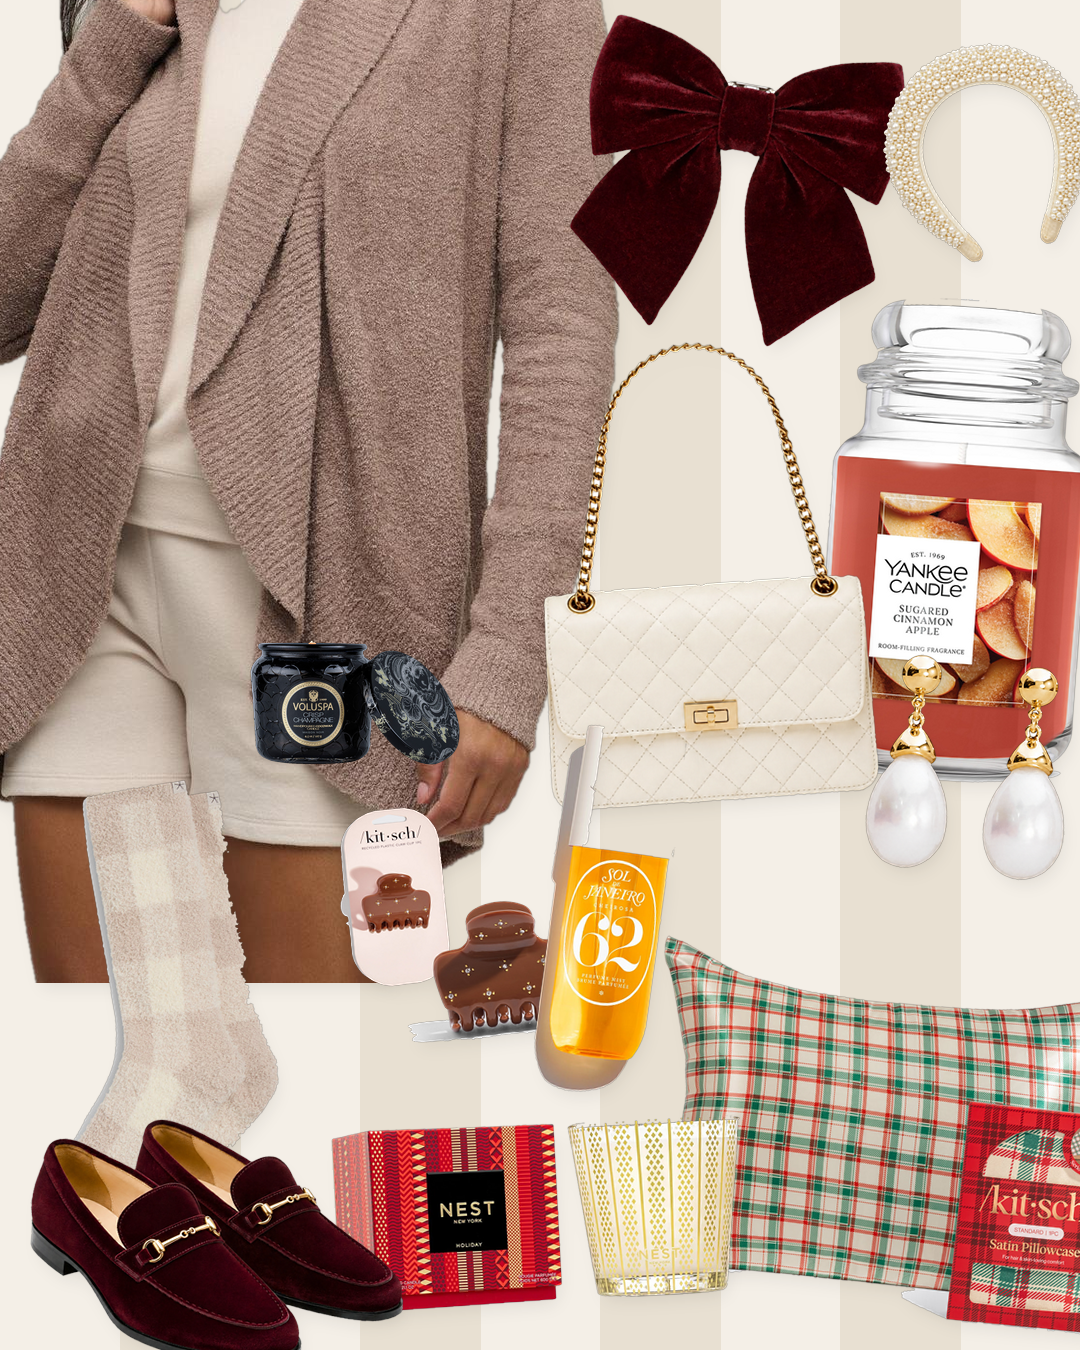
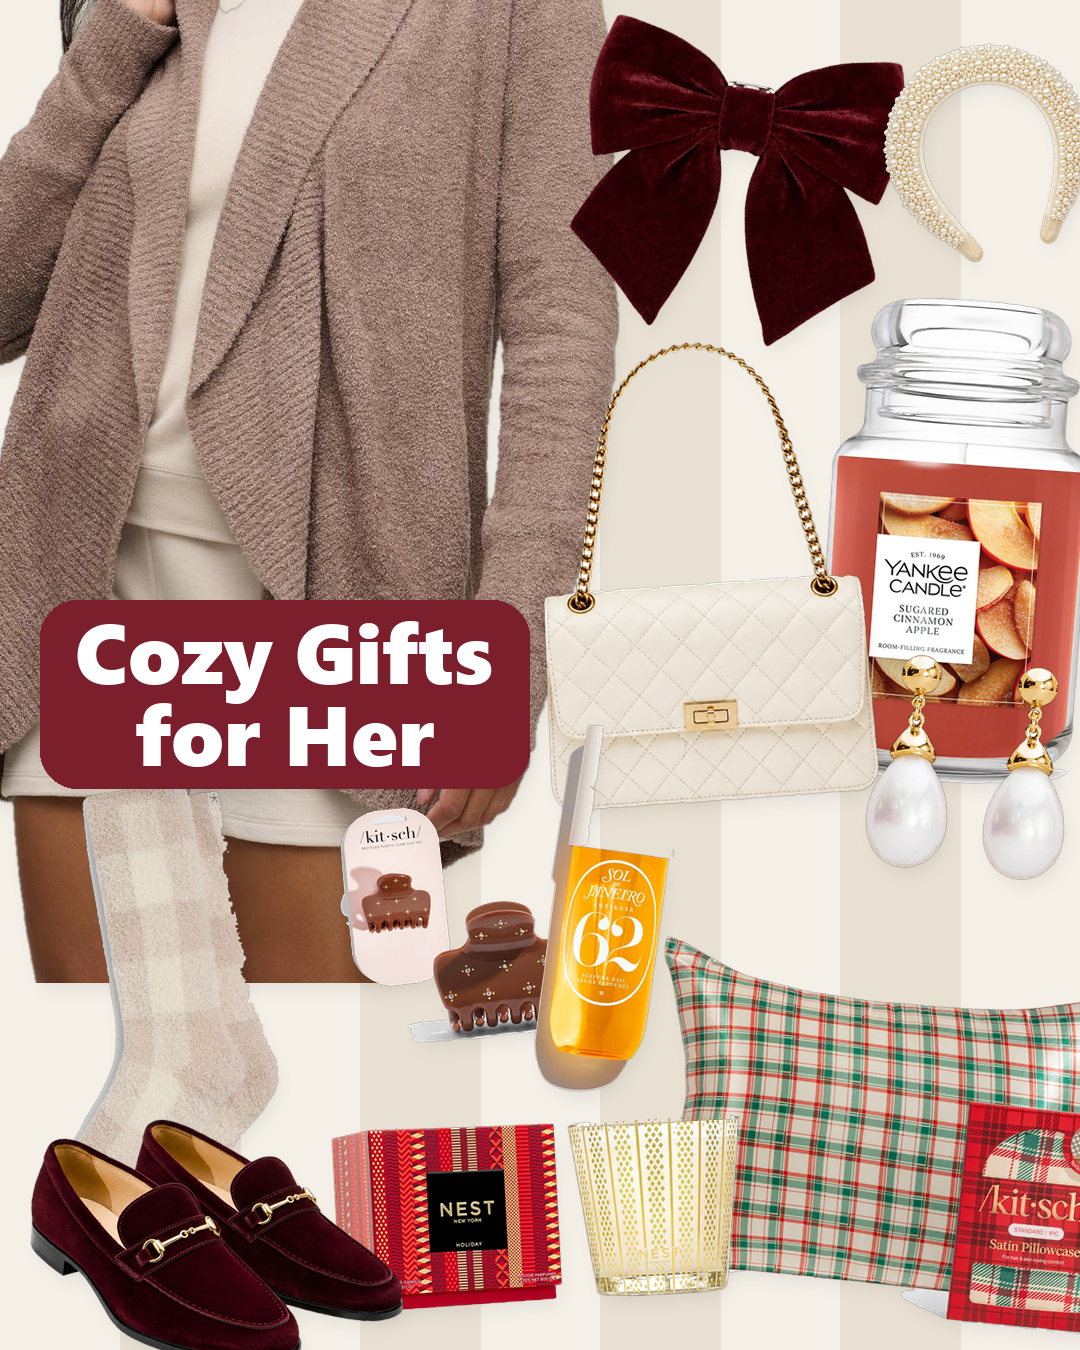
Collage v2 full set: 5 new dense cut-out collages + titles, linen bg, GrabCut/dark-shadow cutouts, manifest

diff --git a/specs/make_collage2.py b/specs/make_collage2.py
@@ -16,12 +16,14 @@ OUT = ROOT / "posts" / "collage2"
 W, H = 1080, 1350
 
 
-def cut(src, tol=30, grab=False):
+def cut(src, tol=30, grab=False, cache=True):
     """Flood-fill the background from the border by colour distance to the border colour (works on white AND grey studio bgs)."""
     dst = CUT / (pathlib.Path(src).stem + ".png")
-    if dst.exists():
+    if cache and dst.exists():
         return Image.open(dst)
     im = Image.open(SRC / src).convert("RGBA")
+    if im.getextrema()[3][0] < 250 and tol >= 50:   # pre-cut PNG with a shadow/halo: flatten on white and re-cut harder
+        flat = Image.new("RGBA", im.size, (255, 255, 255, 255)); flat.alpha_composite(im); im = flat
     if im.getextrema()[3][0] < 250:          # already transparent
         a = im.getchannel("A")
         out = im.crop(a.point(lambda v: 255 if v > 20 else 0).getbbox())
@@ -45,8 +47,17 @@ def cut(src, tol=30, grab=False):
         for nx, ny in ((x + 1, y), (x - 1, y), (x, y + 1), (x, y - 1)):
             if 0 <= nx < w and 0 <= ny < h and not seen[ny * w + nx] and bgish(nx, ny):
                 seen[ny * w + nx] = 1; q.append((nx, ny))
+    if grab == "dark":   # dark product on a light bg with a grey drop shadow: keep flooding through any light pixel
+        q = deque((i % w, i // w) for i in range(w * h) if seen[i])
+        while q:
+            x, y = q.popleft()
+            for nx, ny in ((x + 1, y), (x - 1, y), (x, y + 1), (x, y - 1)):
+                if 0 <= nx < w and 0 <= ny < h and not seen[ny * w + nx]:
+                    r, g, b, _ = px[nx, ny]
+                    if r + g + b > 3 * 135:
+                        seen[ny * w + nx] = 1; q.append((nx, ny))
     mask = Image.frombytes("L", (w, h), bytes(0 if s else 255 for s in seen))
-    if grab:   # photo with a grey/gradient studio bg (models): refine with OpenCV GrabCut seeded by the flood fill
+    if grab is True or grab == "grab":   # photo with a grey/gradient studio bg (models): refine with OpenCV GrabCut seeded by the flood fill
         import cv2, numpy as np
         rgb = np.array(im.convert("RGB"))[:, :, ::-1].copy()
         m = np.where(np.array(mask) > 0, cv2.GC_PR_FGD, cv2.GC_BGD).astype("uint8")
@@ -70,6 +81,52 @@ def pine():
     bg = Image.new("RGB", (W, H), "#1F3B2D"); g = Image.new("L", (W, H), 0); d = ImageDraw.Draw(g)
     d.polygon([(W * .55, 0), (W * .85, 0), (W * .3, H), (0, H)], fill=60)
     return Image.composite(Image.new("RGB", (W, H), "#2E5A43"), bg, g.filter(ImageFilter.GaussianBlur(90)))
+
+
+def linen(base=(233, 223, 205)):
+    """Warm oatmeal linen: fine noise + faint horizontal/vertical weave."""
+    import random
+    rnd = random.Random(7)
+    sm = Image.new("L", (W // 2, H // 2)); sm.putdata([rnd.randint(0, 255) for _ in range(W * H // 4)])
+    noise = sm.resize((W, H), Image.BILINEAR).filter(ImageFilter.GaussianBlur(.6))
+    weave = Image.new("L", (W, H), 128); d = ImageDraw.Draw(weave)
+    for y in range(0, H, 3):
+        d.line([(0, y), (W, y)], fill=128 + rnd.randint(-22, 22))
+    wv = Image.new("L", (W, H), 128); d = ImageDraw.Draw(wv)
+    for x in range(0, W, 3):
+        d.line([(x, 0), (x, H)], fill=128 + rnd.randint(-18, 18))
+    tex = ImageChops.add(ImageChops.multiply(weave, wv), noise, scale=2)
+    bg = Image.new("RGB", (W, H), base)
+    dark = Image.new("RGB", (W, H), tuple(int(c * .9) for c in base))
+    return Image.composite(bg, dark, tex.point(lambda v: min(255, int(v * 1.6) + 40)))
+
+
+def title(canvas, text, x, y, size=88, style="shadow", fill="#FFFFFF", bgc="#1F3B2D", rot=0):
+    """Bold title sticker like her old collages. style 'shadow' = white heavy sans with dark outline + soft shadow (for pine);
+    'pill' = heavy text on a rounded colour pill (for cream/linen). x, y = top-left of the sticker."""
+    f = ImageFont.truetype("C:/Windows/Fonts/seguibl.ttf", size)
+    probe = ImageDraw.Draw(Image.new("L", (1, 1)))
+    l, t, r, b = map(round, probe.multiline_textbbox((0, 0), text, font=f, spacing=-size // 10, align="center"))
+    tw, th = r - l, b - t
+    px, py = (int(size * .42), int(size * .26)) if style == "pill" else (int(size * .2), int(size * .2))
+    layer = Image.new("RGBA", (tw + 2 * px + 40, th + 2 * py + 40), (0, 0, 0, 0))
+    ox, oy = 20, 20
+    if style == "pill":
+        sh = Image.new("RGBA", layer.size, (0, 0, 0, 0))
+        ImageDraw.Draw(sh).rounded_rectangle([ox, oy + 6, ox + tw + 2 * px, oy + th + 2 * py + 6], radius=int(size * .45), fill=(0, 0, 0, 90))
+        layer.alpha_composite(sh.filter(ImageFilter.GaussianBlur(8)))
+        ImageDraw.Draw(layer).rounded_rectangle([ox, oy, ox + tw + 2 * px, oy + th + 2 * py], radius=int(size * .45), fill=bgc)
+        ImageDraw.Draw(layer).multiline_text((ox + px - l, oy + py - t), text, font=f, fill=fill, spacing=-size // 10, align="center")
+    else:
+        sh = Image.new("RGBA", layer.size, (0, 0, 0, 0))
+        ImageDraw.Draw(sh).multiline_text((ox + px - l, oy + py - t + 6), text, font=f, fill=(0, 0, 0, 200), spacing=-size // 10, align="center",
+                                          stroke_width=max(2, size // 22), stroke_fill=(0, 0, 0, 200))
+        layer.alpha_composite(sh.filter(ImageFilter.GaussianBlur(7)))
+        ImageDraw.Draw(layer).multiline_text((ox + px - l, oy + py - t), text, font=f, fill=fill, spacing=-size // 10, align="center",
+                                             stroke_width=max(2, size // 26), stroke_fill=bgc)
+    if rot:
+        layer = layer.rotate(-rot, expand=True, resample=Image.BICUBIC)
+    _safe(canvas, layer, x - ox, y - oy)
 
 
 def place(canvas, img, x, y, w, rot=0, shadow=.28, flip=False):
@@ -98,7 +155,7 @@ def sticker(canvas, text, x, y, size=64, fill="#FFFFFF", stroke="#1F3B2D"):
 
 LAYOUTS = {
  # Cozy gifts for her: cream stripes, cranberry + oatmeal + cream + gold
- "her-cozy": dict(bg=stripes, items=[
+ "her-cozy": dict(bg=stripes, title=dict(text="Cozy Gifts\nfor Her", x=40, y=600, size=84, style="pill", bgc="#7A1F2B"), items=[
    ("bfd/cardi_c.jpg", -60, -30, 680, 0, 16, "grab"),        # hero apparel, cropped flush top-left
    ("bow.png", 550, 10, 320, 10, 28),
    ("headband.png", 860, 20, 210, -14, 28),
@@ -113,6 +170,89 @@ LAYOUTS = {
    ("trend/nest.jpg", 330, 1110, 410, -3, 26),
    ("loafers.png", 20, 1110, 380, 4, 28),
   ]),
+ # Gifts for him: deep pine, browns/black/silver, white "Holiday Favorites" title at the bottom
+ "him-favorites": dict(bg=pine, title=dict(text="Holiday Favorites", x=95, y=1180, size=104), items=[
+   ("brand/bose_c.png", -20, 30, 470, -6, 28),
+   ("brand/beanie_c.png", 410, -10, 300, 6, 28),
+   ("brand/yeti_c.png", 760, 10, 270, 4, 28),
+   ("trend/cosori.png", 20, 400, 330, -4, 28),
+   ("brand/ember_c.png", 330, 330, 270, 0, 28),
+   ("watch.png", 610, 290, 170, 12, 28),
+   ("dec3/bose_flex.jpg", 760, 330, 300, -8, 28),
+   ("dec3/lodge.jpg", 540, 520, 380, -18, 28),
+   ("him/leatherman.jpg", 900, 560, 150, 18, 28),
+   ("wallet.png", 300, 640, 280, 8, 28),
+   ("brand/thera_c.png", 10, 740, 320, -10, 50, "dark"),
+   ("bfd/BDWCC27072_UMBER_MULTI_FRONT.jpg", 270, 860, 210, -14, 42),
+   ("moccasins.png", 560, 860, 470, -4, 28),
+   ("brand/airtag_c.png", 440, 900, 170, 10, 28),
+ ]),
+ # Christmas hosting: oatmeal linen, red/cream/gold/black, cranberry pill title
+ "hosting-season": dict(bg=linen, title=dict(text="Hosting Season", x=150, y=725, size=100, style="pill", bgc="#7A1F2B"), items=[
+   ("bfd/BDWNV27074_UMBER_MULTI_FRONT.jpg", 0, 10, 200, -10, 42),
+   ("dec3/lodge.jpg", 110, 30, 430, -20, 28),
+   ("dec3/yankee.jpg", 470, 10, 260, 3, 28),
+   ("trend/cosori.png", 700, 0, 390, 0, 28),
+   ("u25/candle_c.png", 0, 380, 270, 0, 28),
+   ("bow.png", 250, 420, 270, -8, 28),
+   ("brand/ember_c.png", 520, 360, 240, -4, 28),
+   ("glass.png", 770, 370, 280, 6, 28),
+   ("dec3/bose_flex.jpg", -20, 870, 320, -6, 28),
+   ("u25/pillow_c.png", -30, 1000, 500, -6, 30),
+   ("bfd/B503_Java_1_HR.jpg", 330, 880, 400, 4, 30, "dark"),
+   ("trend/nest.jpg", 640, 880, 450, 3, 26),
+   ("brand/ugg_c.png", 690, 1110, 390, -4, 28),
+ ]),
+ # Cozy night in: cream stripes, rose/mauve/oatmeal/brown, rose pill title
+ "cozy-night-in": dict(bg=stripes, title=dict(text="Cozy Night In", x=330, y=1180, size=92, style="pill", bgc="#8C3A4B"), items=[
+   ("bfd/robe_c.jpg", -60, -20, 620, 0, 34, "grab"),
+   ("bfd/B503_Java_1_HR.jpg", 560, 0, 430, 4, 30, "dark"),
+   ("jlab/lux_mauve.png", 820, 300, 260, 10, 28),
+   ("bf/stanley.png", 520, 330, 220, -4, 28),
+   ("u25/sdj_c.png", 720, 470, 120, 8, 28),
+   ("dec3/yankee.jpg", 820, 560, 240, 3, 28),
+   ("brand/ember_c.png", 560, 620, 240, -3, 28),
+   ("u25/candle_c.png", 330, 640, 220, 0, 28),
+   ("bfd/BDWCC27064_STONE_MULTI_FRONT.jpg", -20, 760, 240, -10, 42),
+   ("bfd/BDWCC27072_UMBER_MULTI_FRONT.jpg", 180, 800, 230, 8, 42),
+   ("jlab/air_rose.png", 760, 860, 260, -6, 55),
+   ("brand/ugg_c.png", 420, 880, 380, -6, 28),
+   ("moccasins.png", 10, 1080, 420, 4, 28),
+   ("trend/nest.jpg", 680, 1000, 380, -2, 26),
+ ]),
+ # Stocking stuffers: pine, small bright pieces, white title
+ "stocking-stuffers": dict(bg=pine, title=dict(text="Stocking Stuffers", x=110, y=1190, size=104), items=[
+   ("dec3/jellycat.jpg", 10, 10, 320, -4, 60),
+   ("trend/instax_pink.png", 330, 0, 330, 6, 28),
+   ("bow.png", 690, 0, 380, 10, 28),
+   ("u25/candle_c.png", 0, 360, 290, 0, 28),
+   ("brand/thera_c.png", 270, 330, 260, -10, 50, "dark"),
+   ("headband.png", 540, 320, 260, -8, 28),
+   ("dec3/kong.jpg", 840, 330, 220, 10, 28),
+   ("bfd/BDWNV27074_UMBER_MULTI_FRONT.jpg", 0, 590, 250, -12, 42),
+   ("dec3/bose_flex.jpg", 240, 690, 360, -6, 28),
+   ("jlab/air_rose.png", 590, 600, 300, 6, 55),
+   ("earrings.png", 890, 600, 170, 8, 28),
+   ("watch.png", 60, 880, 170, -10, 28),
+   ("brand/airtag_c.png", 260, 840, 210, 12, 28),
+   ("him/leatherman.jpg", 420, 880, 170, 70, 28),
+   ("jlab/pop_cloud.png", 690, 860, 340, -4, 50),
+ ]),
+ # Kids: blush stripes, pastel lilac/pink/sage, plum pill title
+ "kid-approved": dict(bg=lambda: stripes("#F8F0EF", "#EFE0E1"), title=dict(text="Kid-Approved Gifts", x=150, y=1190, size=86, style="pill", bgc="#5B3C88"), items=[
+   ("trend/magna.jpg", 10, 10, 540, -4, 28),
+   ("trend/yoto.png", 560, 0, 320, 6, 55),
+   ("dec3/jellycat.jpg", 820, 60, 260, 6, 60),
+   ("trend/instax_d1.png", 520, 330, 300, -6, 28),
+   ("trend/instax_pink.png", 30, 520, 290, 8, 28),
+   ("dec3/dash.jpg", 320, 560, 260, -4, 28),
+   ("jlab/lux_sage.png", 780, 430, 290, 10, 28),
+   ("bf/stanley.png", 860, 700, 200, 6, 28),
+   ("jlab/air_lilac.png", 600, 700, 260, -6, 28),
+   ("u25/claw_c.png", 20, 860, 260, -8, 28),
+   ("jlab/lux_mauve.png", 270, 820, 330, 4, 28),
+   ("jlab/pop_cloud.png", 620, 900, 280, 6, 50),
+ ]),
 }
 
 
@@ -120,13 +260,26 @@ def build(name):
     L = LAYOUTS[name]
     canvas = L["bg"]().convert("RGBA")
     for f, x, y, w, rot, tol, *g in L["items"]:
-        place(canvas, cut(f, tol, bool(g)), x, y, w, rot)
-    for s in L.get("stickers", []):
-        sticker(canvas, *s)
+        place(canvas, cut(f, tol, g[0] if g else False), x, y, w, rot)
+    if L.get("title"):
+        title(canvas, **L["title"])
     OUT.mkdir(parents=True, exist_ok=True)
     p = OUT / f"{name}.png"; canvas.convert("RGB").save(p, quality=95); print(p)
 
 
+def cutcheck(name):
+    """Contact sheet of a layout's cut-outs on magenta, to spot grey remnants / ghosted parts."""
+    items = LAYOUTS[name]["items"]; S = 260; C = 5
+    sheet = Image.new("RGBA", (S * C, S * ((len(items) + C - 1) // C)), (255, 0, 255, 255))
+    for i, (f, x, y, w, rot, tol, *g) in enumerate(items):
+        im = cut(f, tol, g[0] if g else False).copy(); im.thumbnail((S - 10, S - 10)); sheet.alpha_composite(im, ((i % C) * S + 5, (i // C) * S + 5))
+    p = ROOT / "out" / f"_cuts-{name}.png"; sheet.convert("RGB").save(p); print(p)
+
+
 if __name__ == "__main__":
-    for n in (sys.argv[1:] or LAYOUTS):
-        build(n)
+    args = sys.argv[1:]
+    if args[:1] == ["--cuts"]:
+        for n in args[1:]: cutcheck(n)
+    else:
+        for n in (args or LAYOUTS):
+            build(n)

diff --git a/posts/collage2/manifest.md b/posts/collage2/manifest.md
@@ -1,0 +1,98 @@
+# Collage v2 set (Nov 25 2026): products to tag on Amazon
+
+These are built with `specs/make_collage2.py`, in the owner's old dense cut-out style, with a title sticker on each. They are not posted yet. When posting, tag the matching Amazon product (ASIN) for each item below. Items are listed back to front.
+
+## her-cozy.png ("Cozy Gifts for Her", cream stripes)
+1. Barefoot Dreams CozyChic Circle Cardigan (taupe)
+2. Burgundy velvet hair bow
+3. Pearl-embellished padded headband
+4. Yankee Candle Sugared Cinnamon Apple, large jar
+5. Quilted cream shoulder bag with gold chain
+6. Kitsch satin pillowcase (holiday plaid)
+7. Voluspa Crisp Champagne petite candle
+8. Barefoot Dreams CozyChic socks (stone check)
+9. Kitsch puffy claw clip
+10. Sol de Janeiro Cheirosa 62 perfume mist
+11. Gold-and-pearl drop earrings
+12. NEST Holiday candle (3-wick, boxed)
+13. Burgundy velvet horsebit loafers
+
+## him-favorites.png ("Holiday Favorites", pine green)
+1. Bose QuietComfort headphones (sandstone)
+2. Carhartt knit beanie (black)
+3. YETI Rambler lowball (camo)
+4. COSORI gooseneck electric kettle
+5. Ember Mug 2 (black)
+6. Brown leather strap watch
+7. Bose SoundLink Flex speaker
+8. Lodge cast iron skillet (250th edition)
+9. Leatherman Wingman multitool
+10. Brown leather bifold wallet
+11. Theragun Mini (Therabody)
+12. Barefoot Dreams men's socks (umber pattern)
+13. Sheepskin-lined moccasin slippers
+14. Apple AirTag
+
+## hosting-season.png ("Hosting Season", oatmeal linen)
+1. Fair Isle cozy socks (cream/umber)
+2. Lodge cast iron skillet
+3. Yankee Candle Sugared Cinnamon Apple, large jar
+4. COSORI gooseneck electric kettle
+5. Voluspa Crisp Champagne petite candle
+6. Burgundy velvet bow
+7. Ember Mug 2 (black)
+8. Whiskey glass with ice-sphere mold
+9. Bose SoundLink Flex speaker
+10. Kitsch satin pillowcase (holiday plaid)
+11. Barefoot Dreams CozyChic throw (Java/brown)
+12. NEST Holiday candle (3-wick, boxed)
+13. UGG Tasman slipper (black)
+
+## cozy-night-in.png ("Cozy Night In", cream stripes)
+1. Barefoot Dreams CozyChic robe (rose)
+2. Barefoot Dreams CozyChic throw (Java/brown)
+3. JLab JBuds Lux headphones (mauve)
+4. Stanley Quencher 40 oz (pink)
+5. Sol de Janeiro Cheirosa 62 perfume mist
+6. Yankee Candle Sugared Cinnamon Apple, large jar
+7. Ember Mug 2 (black)
+8. Voluspa Crisp Champagne petite candle
+9. Barefoot Dreams CozyChic socks (stone check)
+10. Barefoot Dreams socks (umber pattern)
+11. JLab earbuds (rose/red)
+12. UGG Tasman slipper (black)
+13. Sheepskin-lined moccasin slippers
+14. NEST Holiday candle (3-wick, boxed)
+
+## stocking-stuffers.png ("Stocking Stuffers", pine green)
+1. Jellycat Bashful Bunny
+2. Fujifilm Instax Mini 12 (blossom pink)
+3. Burgundy velvet hair bow
+4. Voluspa Crisp Champagne petite candle
+5. Theragun Mini (Therabody)
+6. Pearl-embellished padded headband
+7. KONG Classic dog toy
+8. Fair Isle cozy socks (cream/umber)
+9. Bose SoundLink Flex speaker
+10. JLab earbuds (rose/red)
+11. Gold-and-pearl drop earrings
+12. Brown leather strap watch
+13. Apple AirTag
+14. Leatherman Wingman multitool
+15. JLab earbuds (cloud white)
+
+## kid-approved.png ("Kid-Approved Gifts", blush stripes)
+1. Magna-Tiles 100-piece set
+2. Yoto Mini audio player
+3. Jellycat Bashful Bunny
+4. Fujifilm Instax Mini 12 (lilac)
+5. Fujifilm Instax Mini 12 (blossom pink)
+6. Dash Mini Waffle Maker (lavender)
+7. JLab JBuds Lux headphones (sage)
+8. Stanley Quencher 40 oz (pink)
+9. JLab earbuds (lilac)
+10. Kitsch puffy claw clip
+11. JLab JBuds Lux headphones (mauve)
+12. JLab earbuds (cloud white)
+
+Note: a few items repeat across collages (for example the NEST candle, Voluspa, and Bose Flex) because these are the clean product photos we had. Space these collages out when posting, per the variety rule.
